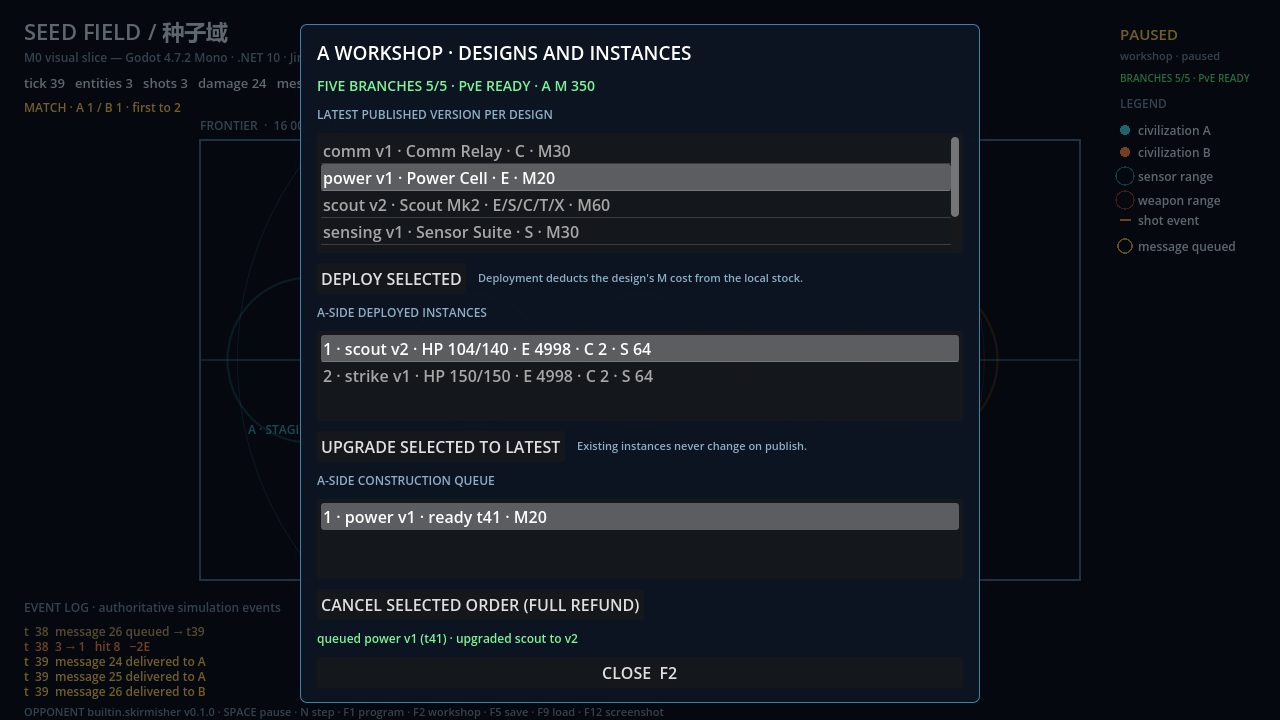
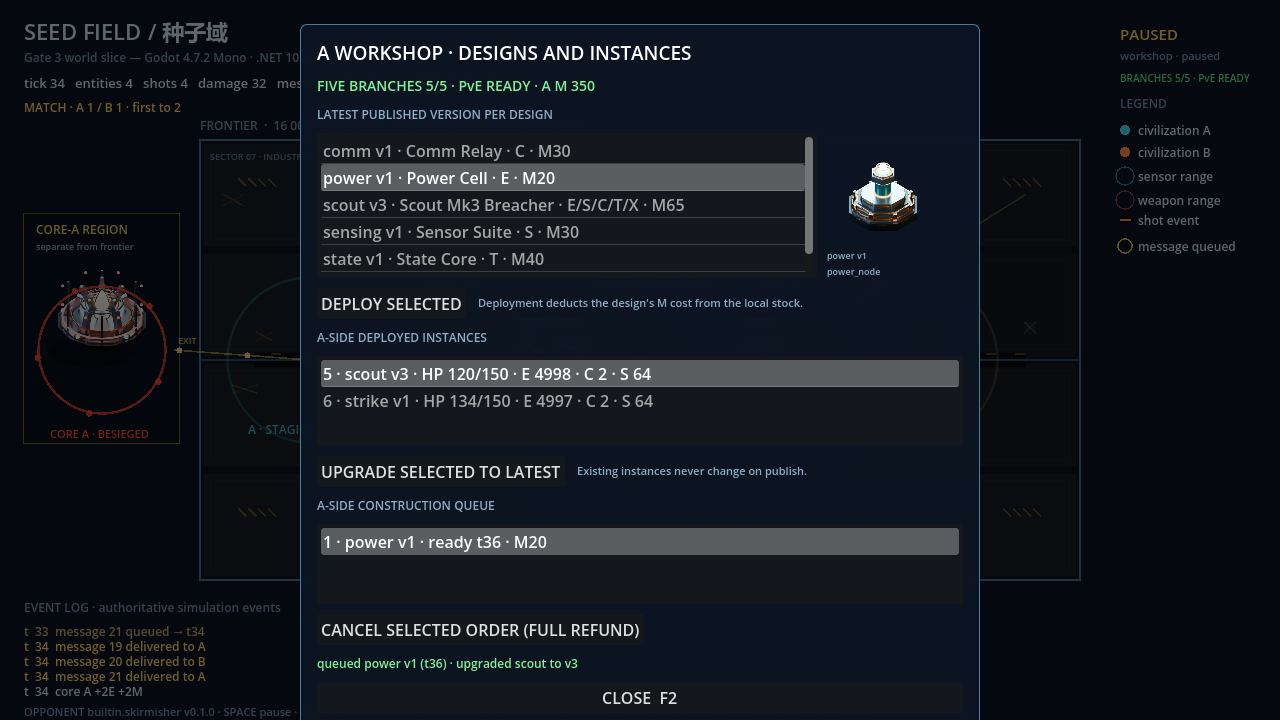
feat(game): SeedField 工坊精灵预览
Show the selected design's sprite in the workshop and target the actual deployed scout when capturing the upgrade state. Update Gate 3 evidence and ADR.

diff --git a/game/SeedField.Game/Scripts/WorkshopPanel.cs b/game/SeedField.Game/Scripts/WorkshopPanel.cs
@@ -20,6 +20,10 @@ public partial class WorkshopPanel : PanelContainer
     private ItemList _instances = null!;
     private ItemList _orders = null!;
     private Label _status = null!;
+    private TextureRect _preview = null!;
+    private Label _previewLabel = null!;
+    private VisualAssetCatalog _catalog = null!;
+    private WorldState? _world;
     private readonly List<string> _blueprintIds = new();
     private readonly List<EntityId> _entityIds = new();
     private readonly List<long> _orderIds = new();
@@ -66,8 +70,31 @@ public partial class WorkshopPanel : PanelContainer
         blueprintLabel.Modulate = new Color(0.55f, 0.68f, 0.78f);
         box.AddChild(blueprintLabel);
 
-        _blueprints = new ItemList { CustomMinimumSize = new Vector2(640, 120) };
-        box.AddChild(_blueprints);
+        _blueprints = new ItemList { CustomMinimumSize = new Vector2(500, 120) };
+        _blueprints.ItemSelected += _ => UpdatePreview();
+        _preview = new TextureRect
+        {
+            CustomMinimumSize = new Vector2(112, 112),
+            ExpandMode = TextureRect.ExpandModeEnum.IgnoreSize,
+            StretchMode = TextureRect.StretchModeEnum.KeepAspectCentered,
+        };
+        _previewLabel = new Label
+        {
+            Text = "select a design",
+            AutowrapMode = TextServer.AutowrapMode.WordSmart,
+            CustomMinimumSize = new Vector2(112, 24),
+        };
+        _previewLabel.AddThemeFontSizeOverride("font_size", 9);
+        _previewLabel.Modulate = new Color(0.55f, 0.68f, 0.78f);
+        var previewBox = new VBoxContainer();
+        previewBox.AddChild(_preview);
+        previewBox.AddChild(_previewLabel);
+        var designRow = new HBoxContainer();
+        designRow.AddThemeConstantOverride("separation", 10);
+        designRow.AddChild(_blueprints);
+        designRow.AddChild(previewBox);
+        box.AddChild(designRow);
+        _catalog = VisualAssetCatalog.Load();
 
         var deployRow = new HBoxContainer();
         deployRow.AddThemeConstantOverride("separation", 12);
@@ -135,6 +162,7 @@ public partial class WorkshopPanel : PanelContainer
 
     public void Refresh(WorldState world)
     {
+        _world = world;
         _blueprintIds.Clear();
         _blueprints.Clear();
 
@@ -153,6 +181,8 @@ public partial class WorkshopPanel : PanelContainer
         {
             _blueprints.Select(0);
         }
+
+        UpdatePreview();
 
         _entityIds.Clear();
         _instances.Clear();
@@ -214,7 +244,45 @@ public partial class WorkshopPanel : PanelContainer
         if (index >= 0)
         {
             _blueprints.Select(index);
+            UpdatePreview();
         }
+    }
+
+    private void UpdatePreview()
+    {
+        _preview.Texture = null;
+        _previewLabel.Text = "select a design";
+        var selected = _blueprints.GetSelectedItems();
+        if (_world is null || selected.Length == 0 || selected[0] >= _blueprintIds.Count)
+        {
+            return;
+        }
+
+        var blueprintId = _blueprintIds[selected[0]];
+        var blueprint = _world.Workshop.GetVersions(blueprintId).LastOrDefault();
+        if (blueprint is null)
+        {
+            return;
+        }
+
+        var asset = blueprint.Weapon is not null
+            ? "worker_frame_weapon"
+            : blueprint.Sensor is not null
+                ? "worker_frame_sensor"
+                : blueprintId.Contains("drill", StringComparison.Ordinal)
+                    ? "worker_frame_drill"
+                    : blueprint.BlueprintId == "power"
+                        ? "power_node"
+                        : "worker_frame";
+        var frame = _catalog.Get(asset);
+        if (frame is null)
+        {
+            _previewLabel.Text = $"{blueprintId} v{blueprint.Version}\nno sprite";
+            return;
+        }
+
+        _preview.Texture = frame.Diffuse;
+        _previewLabel.Text = $"{blueprintId} v{blueprint.Version}\n{asset}";
     }
 
     public void SelectInstance(EntityId entityId)

diff --git a/game/SeedField.Game/Scripts/Main.cs b/game/SeedField.Game/Scripts/Main.cs
@@ -235,12 +235,17 @@ public partial class Main : Node2D
         {
             OpenWorkshop();
             DeployFromWorkshop("power");
-            UpgradeFromWorkshop(new EntityId(1));
+            var scoutForCapture = _world.EnumerateEntities().FirstOrDefault(entity =>
+                entity.CivilizationId == "A" &&
+                string.Equals(entity.BlueprintId, "scout", StringComparison.Ordinal));
+            var scoutId = scoutForCapture?.Id ?? new EntityId(1);
+            UpgradeFromWorkshop(scoutId);
             _workshop.SelectBlueprint("power");
-            _workshop.SelectInstance(new EntityId(1));
+            _workshop.SelectInstance(scoutId);
+            var upgradedScout = _world.FindEntity(scoutId);
             _workshop.SetStatus(
                 $"queued power v1 (t{_world.ConstructionOrders.FirstOrDefault()?.CompleteTick}) " +
-                $"· upgraded scout to v{_world.FindEntity(new EntityId(1))!.BlueprintVersion}",
+                $"· upgraded scout to v{upgradedScout?.BlueprintVersion ?? 0}",
                 false);
             _status = "workshop · paused";
         }

diff --git a/docs/engineering/adr/ADR-0026-world-slice-environment-and-dynamics.md b/docs/engineering/adr/ADR-0026-world-slice-environment-and-dynamics.md
@@ -32,6 +32,7 @@ Gate 2 已把设备、核心四态、模块和 mask 接入真实 `Main`，但实
 - 移动扬尘来自实体位置变化（表现层跟踪上一帧位置），不修改仿真状态。
 - 核心分支指示点由 tick 旋转；四态仍由 `CoreVisualStateRules` 分类。
 - 不使用 `DateTime`/真实时钟/随机每帧动画。
+- `WorkshopPanel` 增加选中蓝图/实例的精灵预览，减少“只看文字”的装配感。
 
 ### 4. 情报边界保持
 
@@ -42,7 +43,7 @@ Gate 2 已把设备、核心四态、模块和 mask 接入真实 `Main`，但实
 ## 非目标
 
 - 不做正式地表材质、建筑资产、运输网络实体。
-- 不做工坊/程序编辑器大预览。
+- 不做程序编辑器大预览；工坊只做选中项的小精灵预览。
 - 不做全部事件（断电、围困、恢复、模块升级）的逐帧演出。
 - 不在本轮记录真实 Main 的 10/50/100 性能。
 

diff --git a/docs/engineering/evidence/2026-11-17-art-gate3-world-slice.md b/docs/engineering/evidence/2026-11-17-art-gate3-world-slice.md
@@ -30,6 +30,7 @@
   - `ShotFired.TargetId` 命中后 6 Tick 闪红；`EntityDestroyed` 清理。
 - `CoreVisual`：四态环 + 5 个随 tick 旋转的分支指示点。
 - 默认画面仍只画 A 方自己与 `Observation` 已感知敌人；F10 全知调试保留。
+- `WorkshopPanel` 增加选中蓝图/实例的精灵预览；`m0-workshop.png` 显示 power 预览与 Mk3 升级。
 
 ## 4. 截图
 
@@ -38,6 +39,7 @@ game/SeedField.Game/screenshots/art-main-combat.png
 game/SeedField.Game/screenshots/art-main-tactical.png
 game/SeedField.Game/screenshots/art-main-debug.png
 game/SeedField.Game/screenshots/art-main-omniscient.png
+game/SeedField.Game/screenshots/m0-workshop.png
 ```
 
 ## 5. 验证

diff --git a/art/README.md b/art/README.md
@@ -161,7 +161,7 @@ godot --path game/SeedField.Game res://Scenes/VisualBench.tscn -- --devices=100 
 - `EntityVisual`：单位放大到 26%，移动时产生履带扬尘，`ShotFired` 命中后 6 Tick 闪红。
 - `CoreVisual`：四态环 + 5 个随 tick 旋转的分支指示点。
 - 默认仍只画已感知敌人；F10 全知调试保留。
-- 截图：`art-main-combat/tactical/debug/omniscient.png`。
+- 截图：`art-main-combat/tactical/debug/omniscient.png`；工坊预览 `m0-workshop.png`。
 
 ## 10. 下一步 Gate
 
